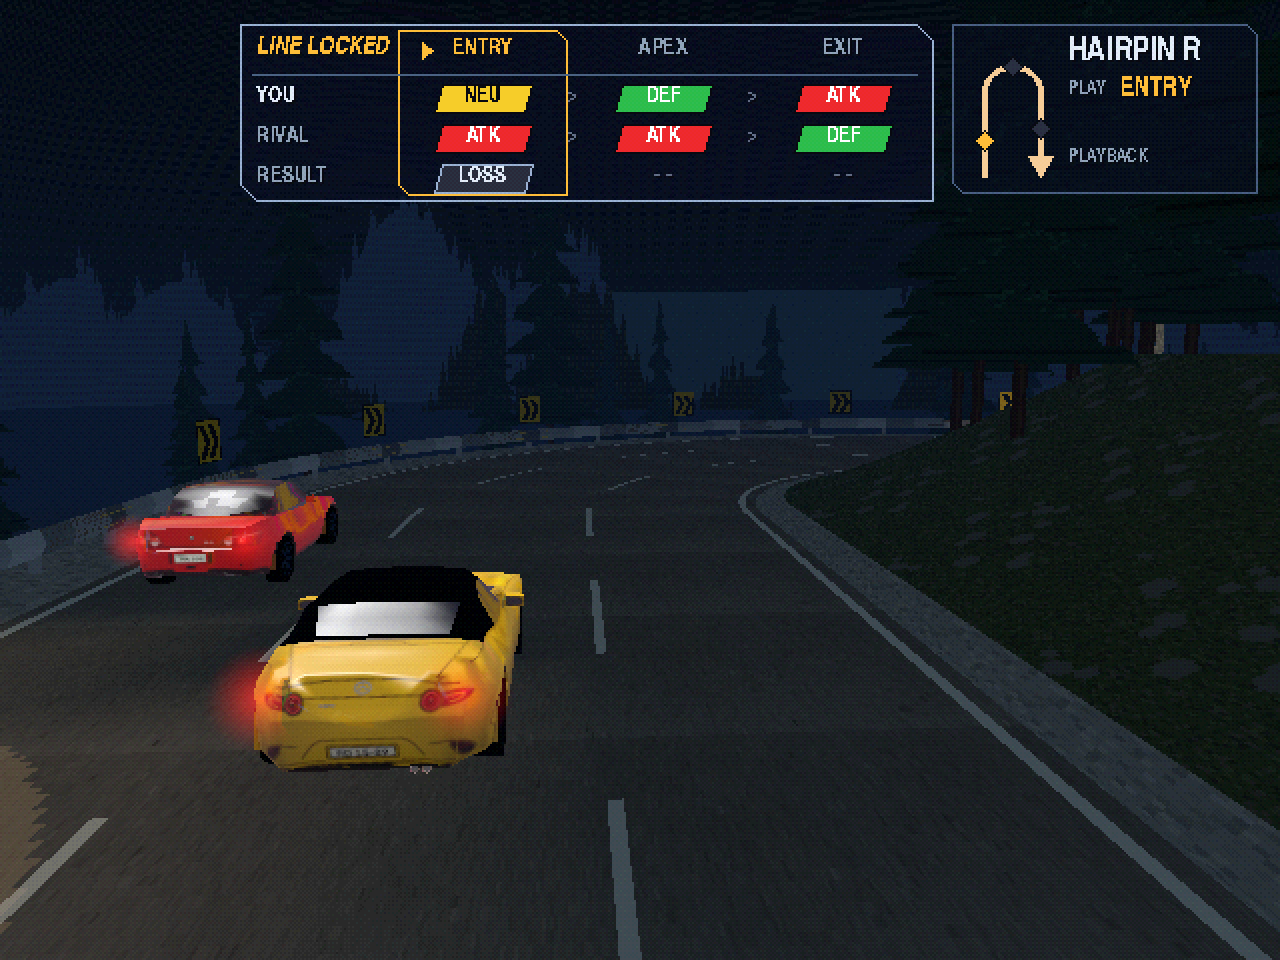
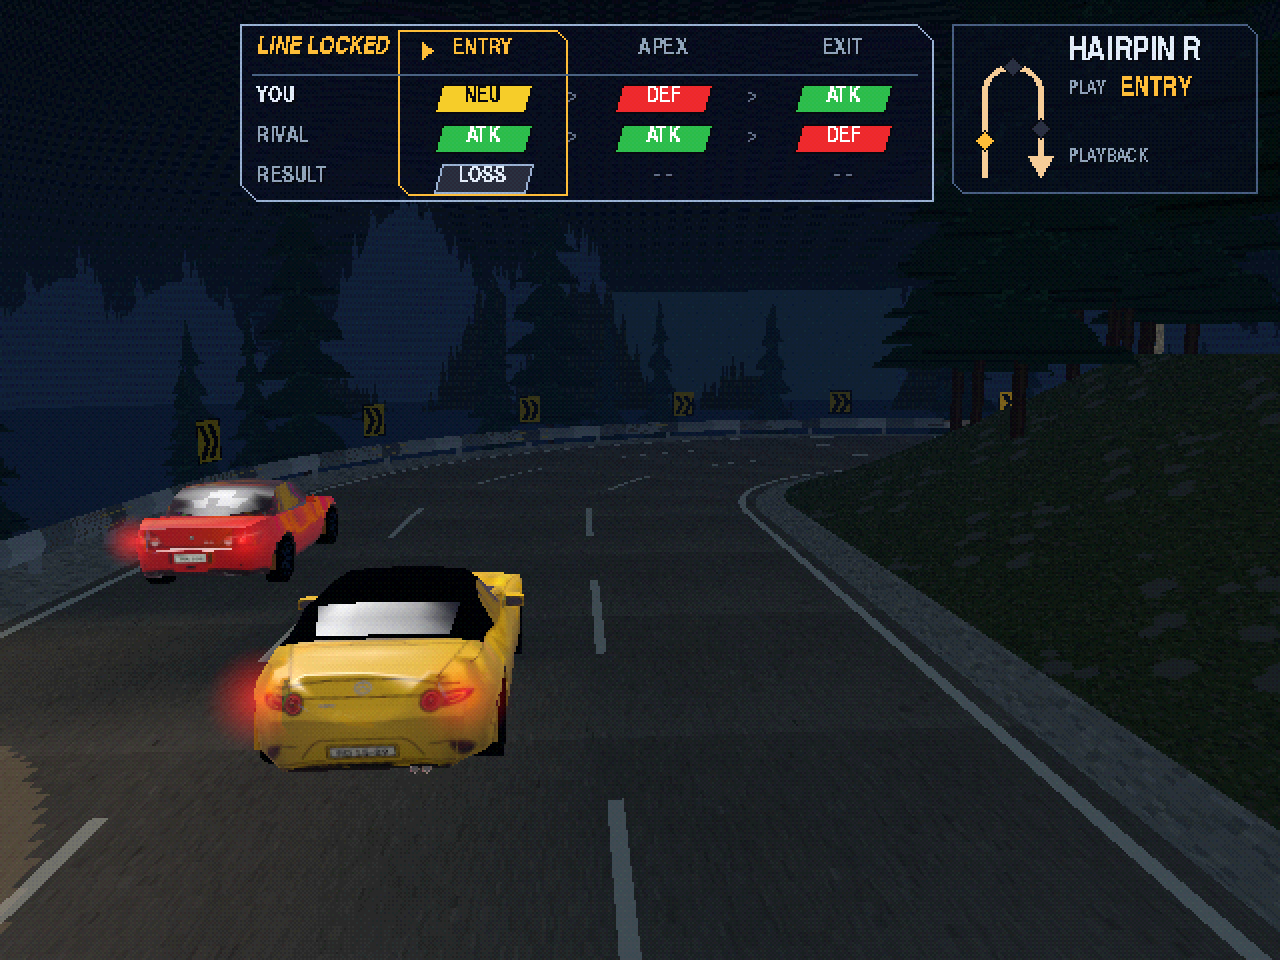
art: apply swapped stance colours (ATK green, DEF red) to approved UI frames

Changed region(s): [[0.625, 0.0625, 0.7188, 0.1562], [0.4688, 0.0625, 0.5625, 0.1562], [0.3438, 0.125, 0.4375, 0.1562]]

diff --git a/art/ui/line_vs_line/post_clash.py b/art/ui/line_vs_line/post_clash.py
@@ -14,7 +14,7 @@ FN = '/usr/share/fonts/opentype/urw-base35/NimbusSansNarrow-Bold.otf'; FI = '/us
 def font(n, it=False): return ImageFont.truetype(FI if it else FN, n)
 WHITE = (220, 230, 242); DIM = (140, 159, 180); DIMMER = (96, 108, 132); EDGE = (71, 94, 127); EDGE_L = (150, 172, 205)
 AMBER = (255, 184, 56); AMBER_D = (150, 90, 20); PANEL = (10, 14, 36); INK = (8, 10, 16); SOD = (240, 200, 148)
-COL = {'ATK': (232, 40, 44), 'DEF': (44, 184, 74), 'NEU': (240, 200, 40)}
+COL = {'ATK': (44, 184, 74), 'DEF': (232, 40, 44), 'NEU': (240, 200, 40)}   # art_direction B.5: stance colours swapped 2026-11-11 (ATK green #2CB84A, DEF red #E8282C)
 BEATS = {'ATK': 'NEU', 'NEU': 'DEF', 'DEF': 'ATK'}
 PHASES = ['ENTRY', 'APEX', 'EXIT']; YOU = ['NEU', 'DEF', 'ATK']; RIV = ['ATK', 'ATK', 'DEF']   # sample lines
 def result(a, b): return 'TIE' if a == b else ('WIN' if BEATS[a] == b else 'LOSS')

diff --git a/art/ui/line_select_cam/post_lsc.py b/art/ui/line_select_cam/post_lsc.py
@@ -14,7 +14,7 @@ FN = '/usr/share/fonts/opentype/urw-base35/NimbusSansNarrow-Bold.otf'; FI = '/us
 def font(n, it=False): return ImageFont.truetype(FI if it else FN, n)
 WHITE = (220, 230, 242); DIM = (140, 159, 180); DIMMER = (96, 108, 132); EDGE = (71, 94, 127); EDGE_L = (150, 172, 205)
 AMBER = (255, 184, 56); AMBER_D = (150, 90, 20); PANEL = (10, 14, 36); INK = (8, 10, 16); SOD = (240, 200, 148)
-COL = {'ATK': (232, 40, 44), 'DEF': (44, 184, 74), 'NEU': (240, 200, 40)}
+COL = {'ATK': (44, 184, 74), 'DEF': (232, 40, 44), 'NEU': (240, 200, 40)}   # art_direction B.5: stance colours swapped 2026-11-11 (ATK green #2CB84A, DEF red #E8282C)
 PICKS = [('ENTRY', 'MID', 'NEU'), ('APEX', 'IN', 'DEF'), ('EXIT', 'OUT', 'ATK')]   # sample picks for the mockup only
 def cut(x, y, x1, y1, c=5): return [(x, y), (x1 - c, y), (x1, y + c), (x1, y1), (x + c, y1), (x, y1 - c)]
 
